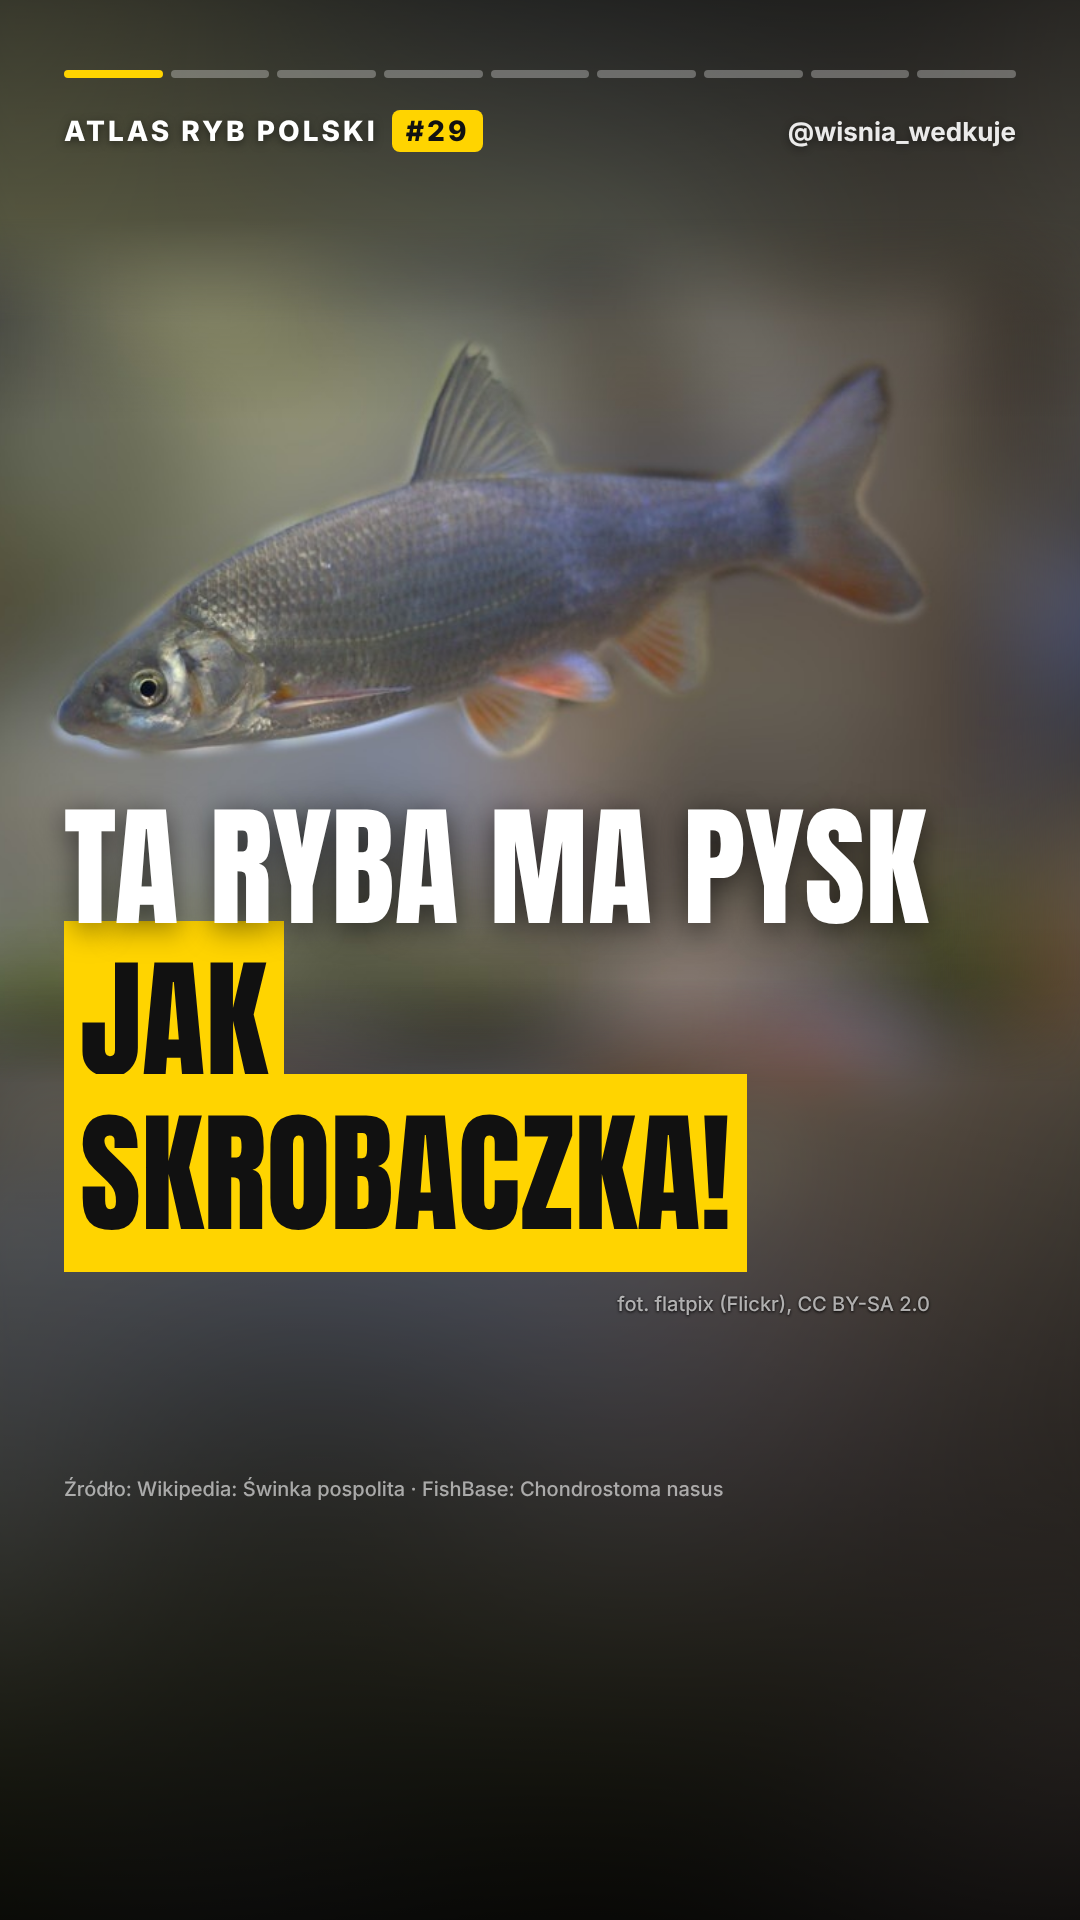
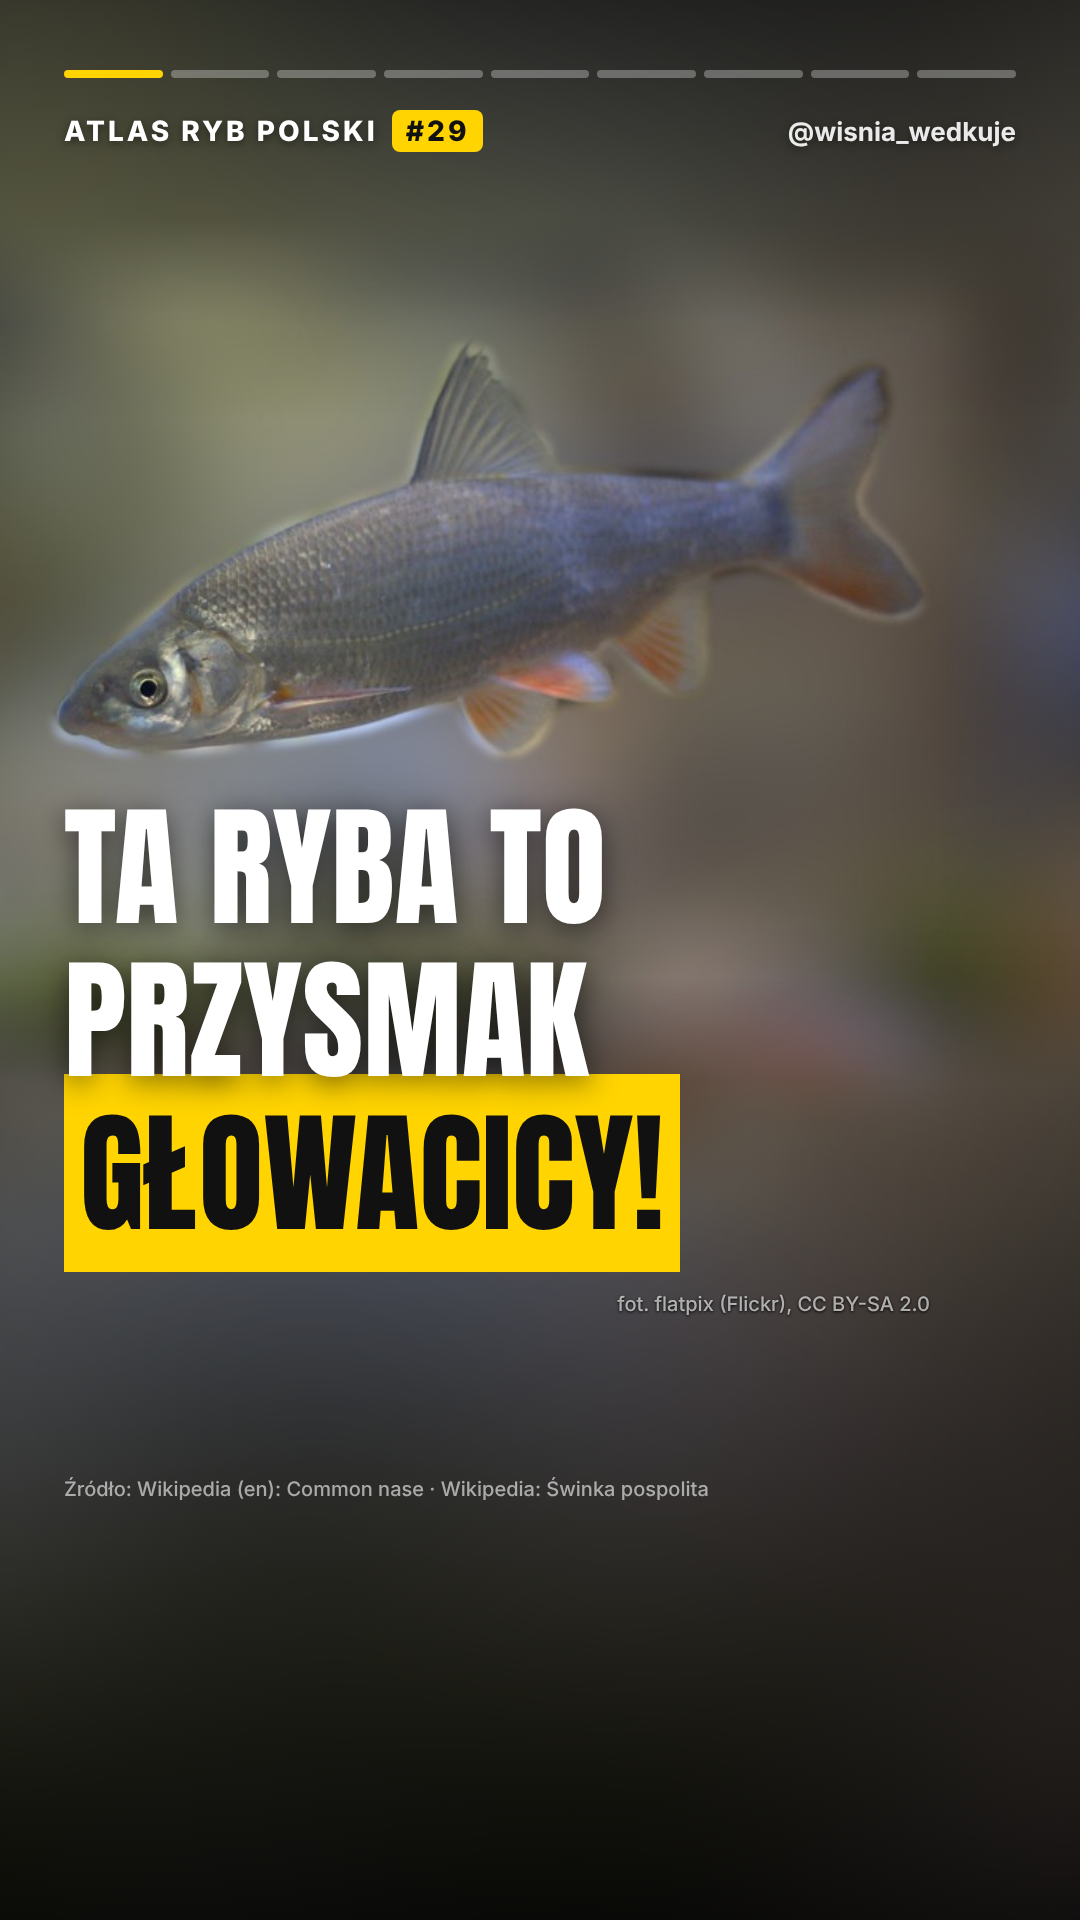
Atlas 29 Świnka: hook – przysmak głowacicy
Claude-Session: https://claude.ai/code/session_01YFDAx1LD8sTfHqEDUSbp2L

Changed region(s): [[0.0611, 0.4062, 0.8556, 0.6875], [0.2139, 0.75, 0.6722, 0.7812]]

diff --git a/atlas/scenariusze/swinka.md b/atlas/scenariusze/swinka.md
@@ -1,10 +1,11 @@
 # 29 Świnka (Chondrostoma nasus)
 
 ## Hook
-„Ta ryba ma pysk jak skrobaczka!” – pysk dolny, twarda, chrzęstna dolna warga o ostrej krawędzi, którą zdrapuje
+„Ta ryba to przysmak głowacicy!” – świnka to najważniejszy pokarm głowacicy (Wikipedia (en): Common nase:
+„most important food source for a Danube salmon (Huchen)”); nawiązanie do odcinka 23. Dalej w hooku: pysk dolny, twarda, chrzęstna dolna warga o ostrej krawędzi, którą zdrapuje
 glony z kamieni (Wikipedia: Świnka pospolita; FishBase: Chondrostoma nasus).
 
-Warianty: (1) warga-skrobaczka – wybrany; (2) „skacze nad wodę na tarle” – w ciekawostce;
+Warianty: (0) przysmak głowacicy – wybrany przez użytkownika; (1) warga-skrobaczka – w hooku jako drugie zdanie; (2) „skacze nad wodę na tarle” – w ciekawostce;
 (3) „wędruje kilkadziesiąt km na tarło” – w ciekawostce.
 
 ## Źródła faktów
